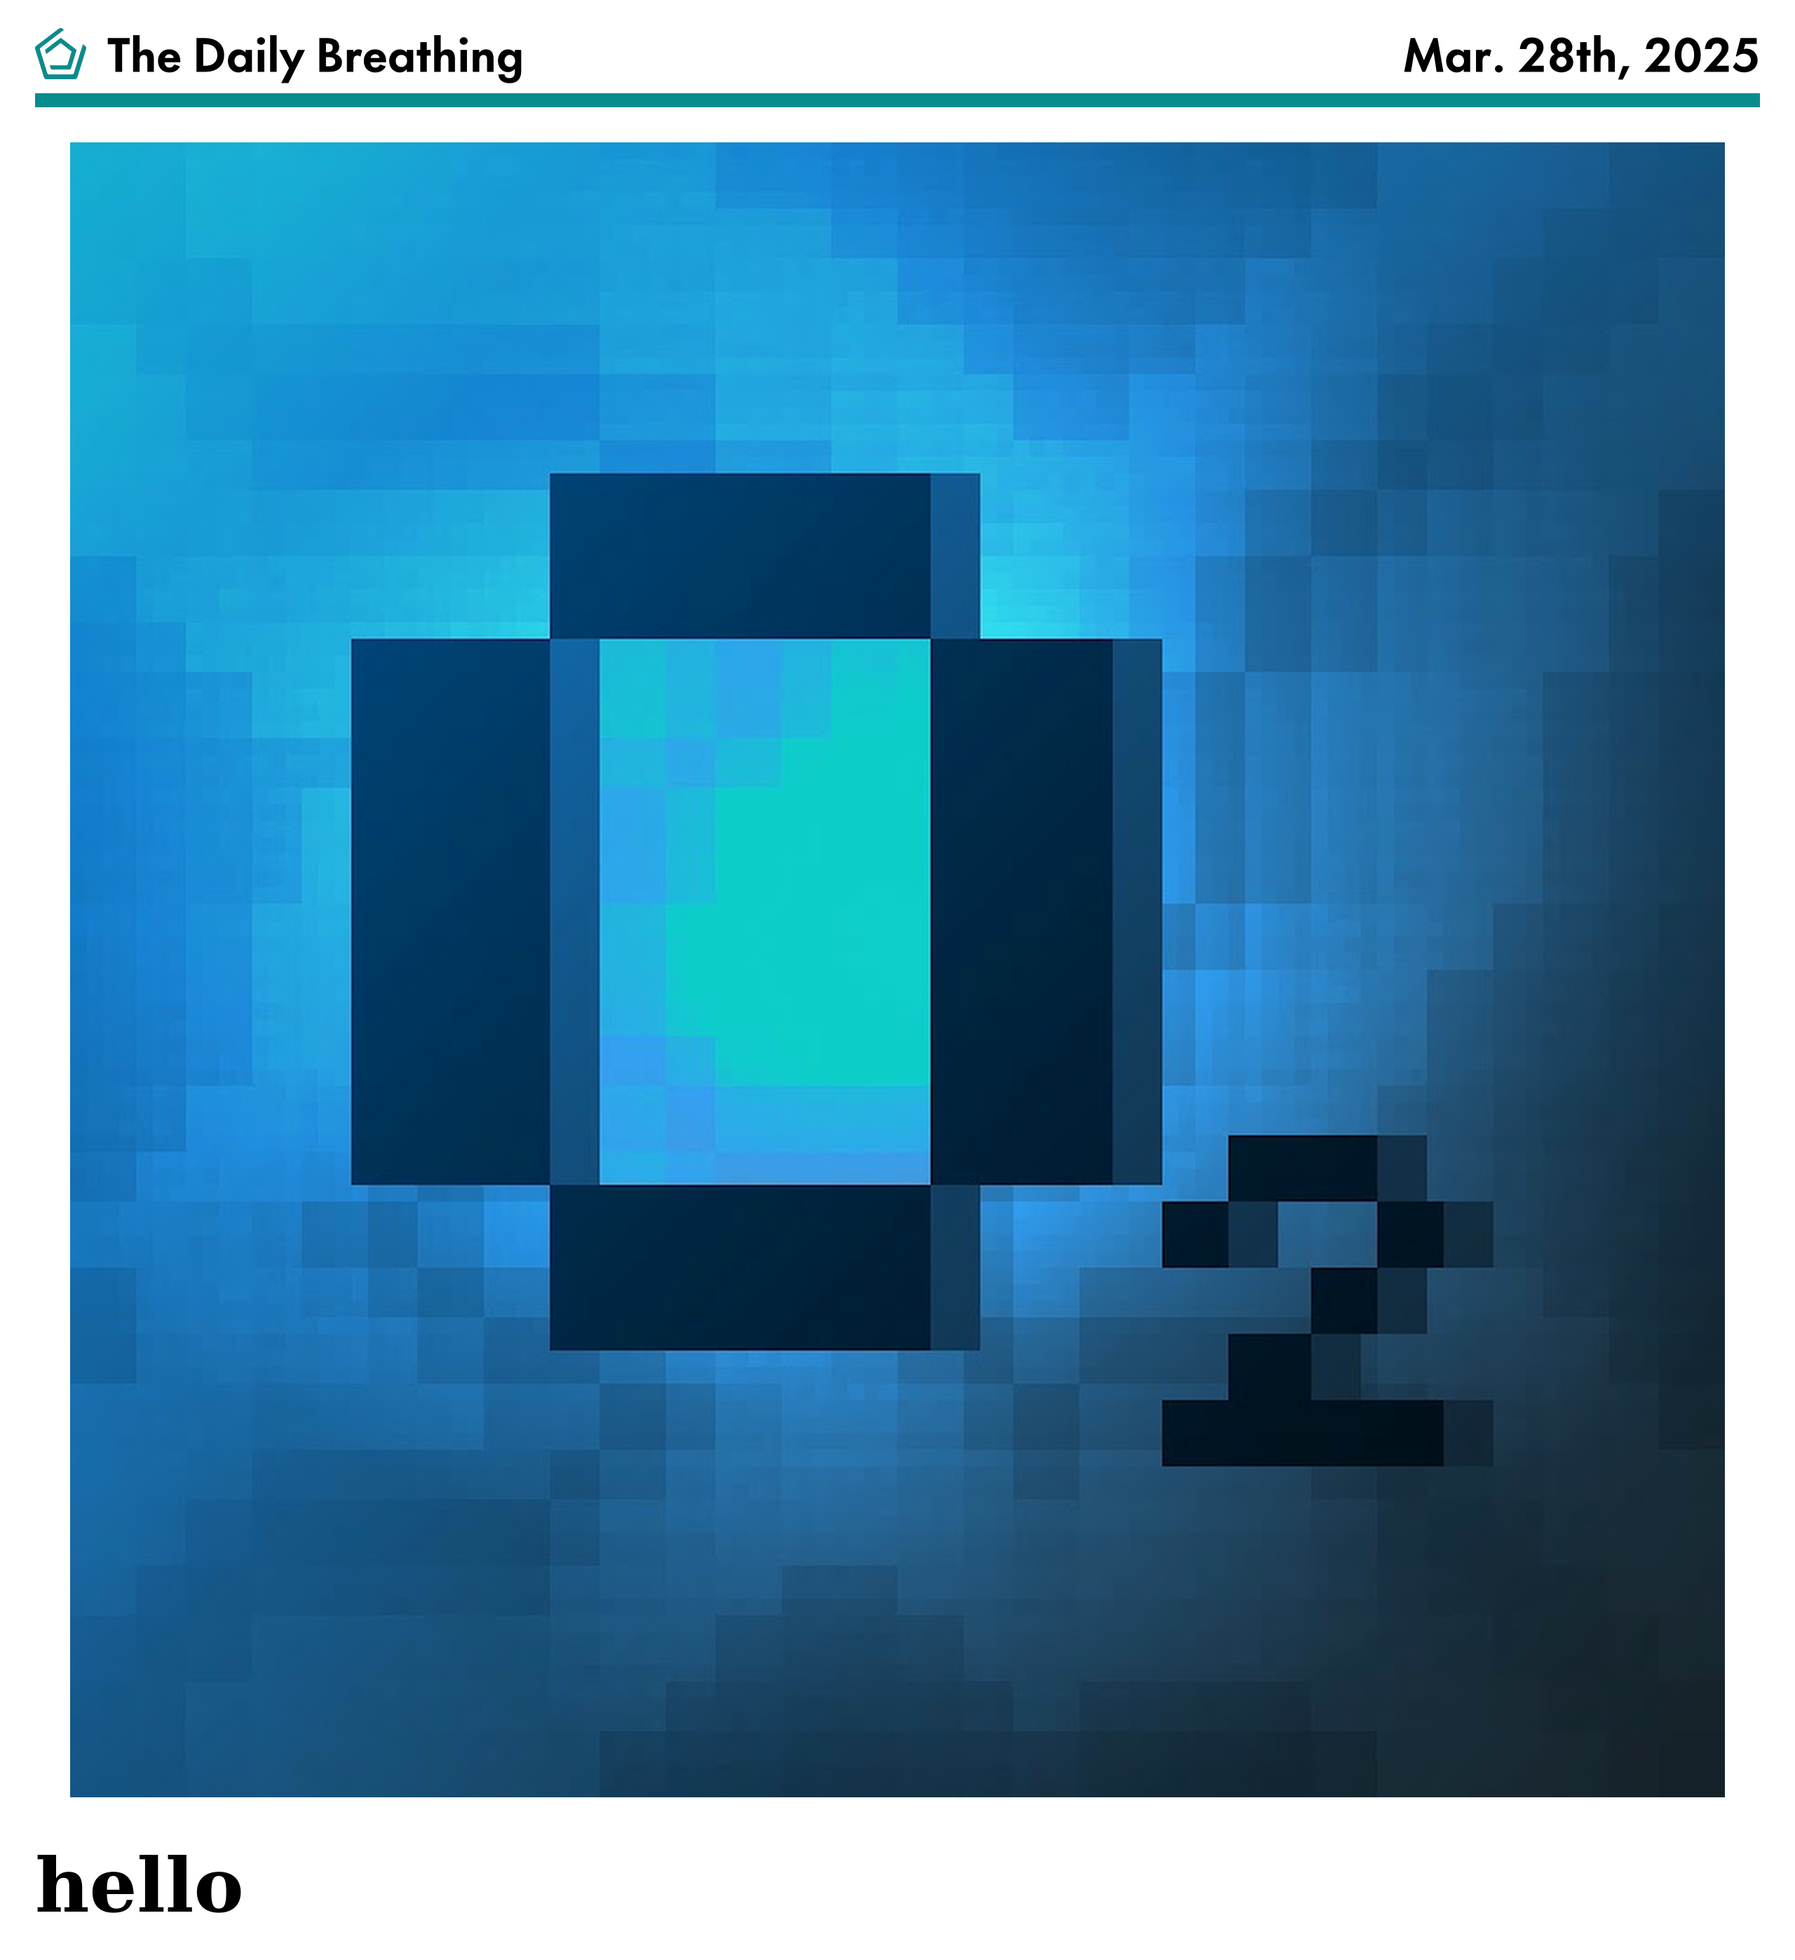
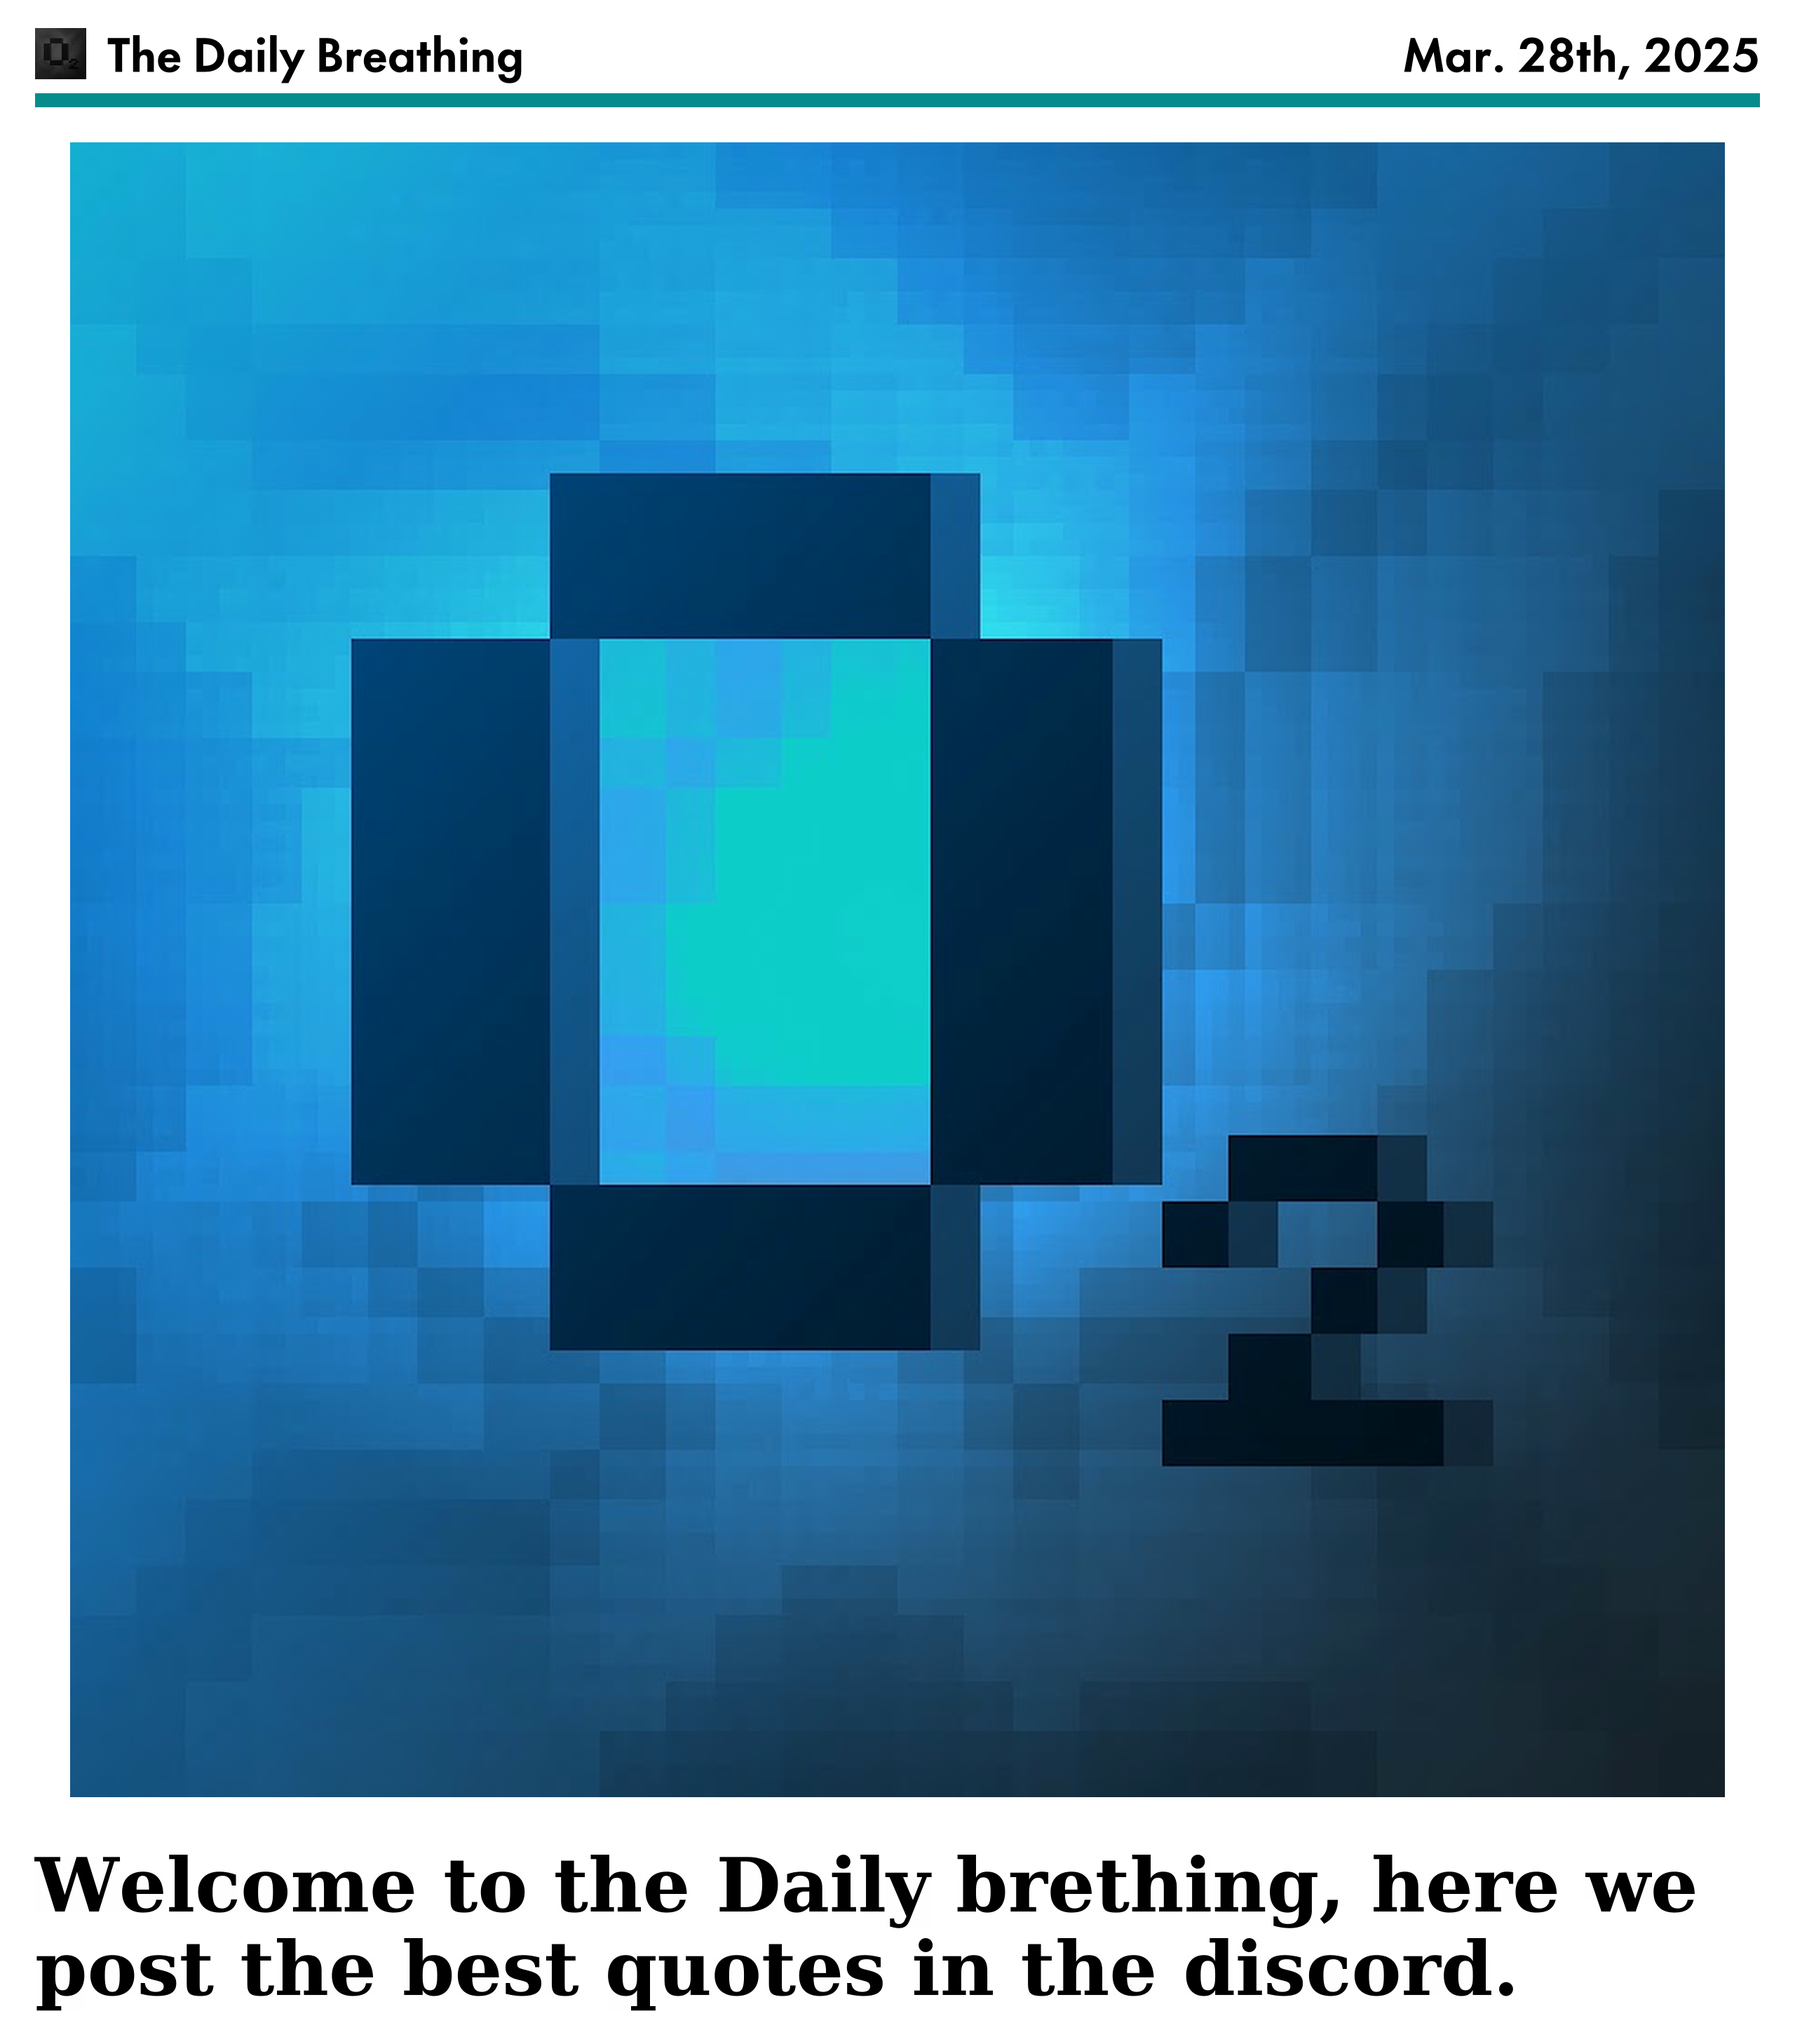
first post

diff --git a/src/main.rs b/src/main.rs
@@ -79,7 +79,7 @@ struct Args {
     header_color: String,
 
     /// The path of the logo to embed
-    #[arg(long, default_value = "./resources/GeodeLogo.png")]
+    #[arg(long, default_value = "./resources/OxygenLogo.jpg")]
     logo: PathBuf,
 
     /// The link of the image to embed
